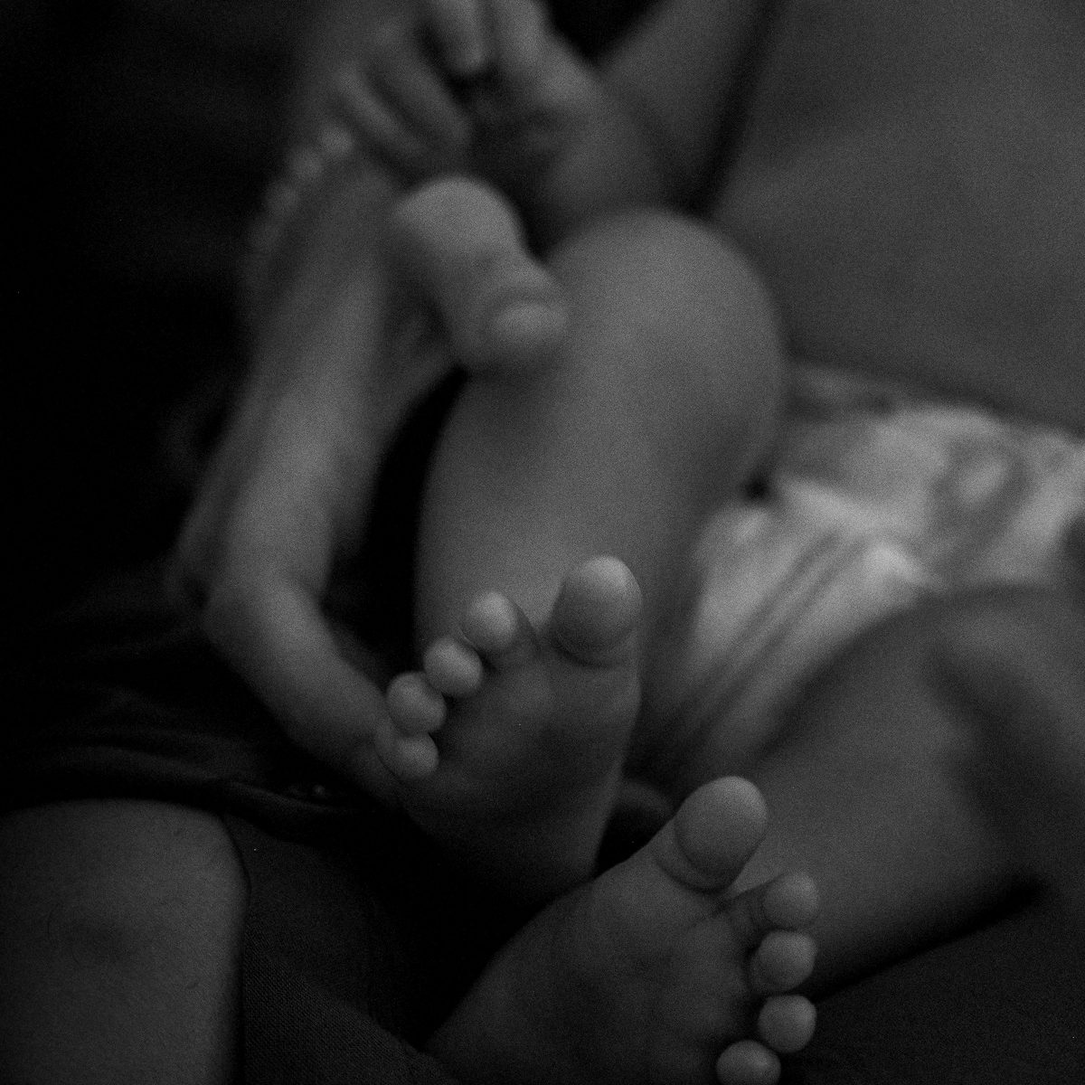
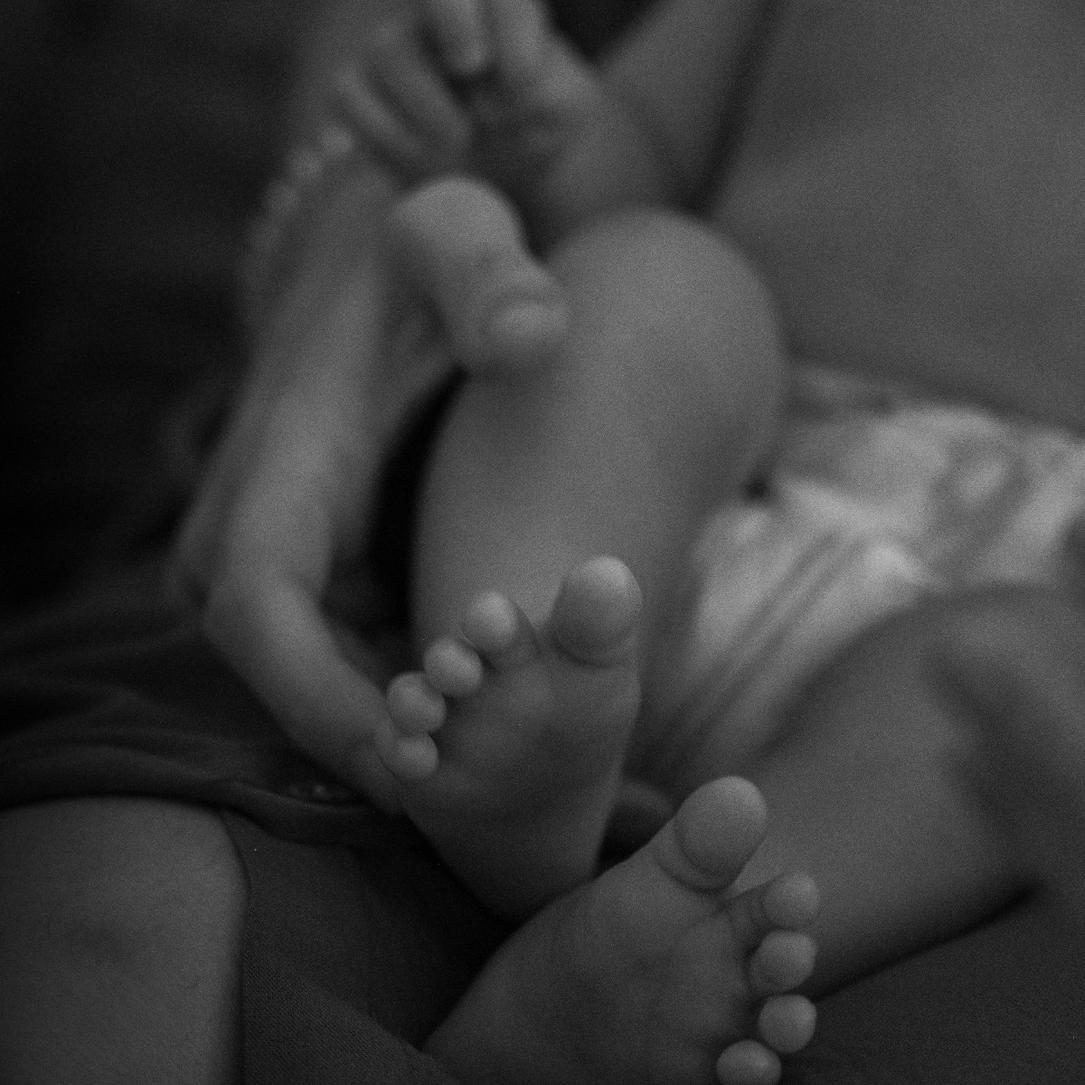
Fotos de nadó amb les edicions definitives (mateix enquadrament); el germà gran amb el nadó ara també en color
Claude-Session: https://claude.ai/code/session_01Gu4fKh15S1mJkh4ThjJ3MW

diff --git a/index.html b/index.html
@@ -481,7 +481,7 @@ body{font-weight:400}
 <header class="bar" aria-hidden="true"><a class="wm" href="#inici">Pau Fotografia</a><nav><a href="#contacte" data-t="cont">Contacte</a></nav></header>
 <main class="page" id="inici">
   <section class="hero">
-    <div class="hgrid" aria-hidden="true"><i class="v1"></i><i class="v2"></i><i class="h1l"></i><i class="h2l"></i><i class="h0l"></i></div><div class="hbg"><picture><img src="/pack/hero.jpg?v=20261119k" alt="Pau amb ulleres, fons desenfocat i una finestra nítida sobre mig rostre" fetchpriority="high"></picture></div>
+    <div class="hgrid" aria-hidden="true"><i class="v1"></i><i class="v2"></i><i class="h1l"></i><i class="h2l"></i><i class="h0l"></i></div><div class="hbg"><picture><img src="/pack/hero.jpg?v=20261119m" alt="Pau amb ulleres, fons desenfocat i una finestra nítida sobre mig rostre" fetchpriority="high"></picture></div>
     <div class="top"><div class="ctrls"><div class="toggle lang" role="group" aria-label="Idioma"><button class="on" data-lang="ca">CAT</button><span>|</span><button data-lang="es">ESP</button><span>|</span><button data-lang="en">ENG</button></div></div></div>
     <h1>Pau Fotografia</h1>
     <div class="tg" data-t="tag">Fotògraf social i<br class="m"> documental</div>
@@ -490,13 +490,13 @@ body{font-weight:400}
     <div class="com"><div class="lb" data-t="com">Com treballo</div><p class="body" data-t="ct">A través de la <button class="term" type="button" aria-haspopup="dialog">fotografia documental<i aria-hidden="true">+</i></button>, <strong>sense estudi ni decorats</strong>: a casa vostra o en aquell lloc on us sentiu com a casa. L'objectiu és que <strong>gaudiu de l'estona</strong> i us oblideu, tant com sigui possible, que hi ha una càmera al davant.</p></div>
   </section>
   <div class="hl"></div>
-  <div class="slider multi sl-elvi" style="aspect-ratio:1080/1150"><div class="track"><figure class="slide"><img class="b" data-v="elvi" src="/pack/elvi-color.jpg?v=20261119k" alt="Elvi somrient amb un floc de cabell davant la cara" loading="eager" style="object-position:50% 30%"><img class="o" data-v="elvi" src="/pack/elvi-bn.jpg?v=20261119k" alt="" aria-hidden="true" loading="lazy" style="object-position:50% 30%"><button class="sw" type="button" aria-label="Veure en blanc i negre"><i></i></button></figure><figure class="slide"><img class="b" data-v="elvi-01" src="/pack/elvi-01-color.jpg?v=20261119k" alt="Elvi amb les mans als cabells" loading="lazy" style="object-position:50% 30%"><img class="o" data-v="elvi-01" src="/pack/elvi-01-bn.jpg?v=20261119k" alt="" aria-hidden="true" loading="lazy" style="object-position:50% 30%"><button class="sw" type="button" aria-label="Veure en blanc i negre"><i></i></button></figure><figure class="slide"><img class="b" data-v="elvi-03" src="/pack/elvi-03-color.jpg?v=20261119k" alt="Elvi mirant de reüll" loading="lazy" style="object-position:50% 30%"><img class="o" data-v="elvi-03" src="/pack/elvi-03-bn.jpg?v=20261119k" alt="" aria-hidden="true" loading="lazy" style="object-position:50% 30%"><button class="sw" type="button" aria-label="Veure en blanc i negre"><i></i></button></figure><figure class="slide"><img class="b" data-v="elvi-04" src="/pack/elvi-04-color.jpg?v=20261119k" alt="Elvi de perfil a la finestra" loading="lazy" style="object-position:50% 30%"><img class="o" data-v="elvi-04" src="/pack/elvi-04-bn.jpg?v=20261119k" alt="" aria-hidden="true" loading="lazy" style="object-position:50% 30%"><button class="sw" type="button" aria-label="Veure en blanc i negre"><i></i></button></figure><figure class="slide"><img class="b" data-v="elvi-05" src="/pack/elvi-05-color.jpg?v=20261119k" alt="Elvi amb la llum de la cortina" loading="lazy" style="object-position:50% 30%"><img class="o" data-v="elvi-05" src="/pack/elvi-05-bn.jpg?v=20261119k" alt="" aria-hidden="true" loading="lazy" style="object-position:50% 30%"><button class="sw" type="button" aria-label="Veure en blanc i negre"><i></i></button></figure></div><div class="dots"><i class=on></i><i></i><i></i><i></i><i></i></div><div class="count">1/5</div><button class="nav prev" aria-label="Anterior">‹</button><button class="nav next" aria-label="Següent">›</button></div>
+  <div class="slider multi sl-elvi" style="aspect-ratio:1080/1150"><div class="track"><figure class="slide"><img class="b" data-v="elvi" src="/pack/elvi-color.jpg?v=20261119m" alt="Elvi somrient amb un floc de cabell davant la cara" loading="eager" style="object-position:50% 30%"><img class="o" data-v="elvi" src="/pack/elvi-bn.jpg?v=20261119m" alt="" aria-hidden="true" loading="lazy" style="object-position:50% 30%"><button class="sw" type="button" aria-label="Veure en blanc i negre"><i></i></button></figure><figure class="slide"><img class="b" data-v="elvi-01" src="/pack/elvi-01-color.jpg?v=20261119m" alt="Elvi amb les mans als cabells" loading="lazy" style="object-position:50% 30%"><img class="o" data-v="elvi-01" src="/pack/elvi-01-bn.jpg?v=20261119m" alt="" aria-hidden="true" loading="lazy" style="object-position:50% 30%"><button class="sw" type="button" aria-label="Veure en blanc i negre"><i></i></button></figure><figure class="slide"><img class="b" data-v="elvi-03" src="/pack/elvi-03-color.jpg?v=20261119m" alt="Elvi mirant de reüll" loading="lazy" style="object-position:50% 30%"><img class="o" data-v="elvi-03" src="/pack/elvi-03-bn.jpg?v=20261119m" alt="" aria-hidden="true" loading="lazy" style="object-position:50% 30%"><button class="sw" type="button" aria-label="Veure en blanc i negre"><i></i></button></figure><figure class="slide"><img class="b" data-v="elvi-04" src="/pack/elvi-04-color.jpg?v=20261119m" alt="Elvi de perfil a la finestra" loading="lazy" style="object-position:50% 30%"><img class="o" data-v="elvi-04" src="/pack/elvi-04-bn.jpg?v=20261119m" alt="" aria-hidden="true" loading="lazy" style="object-position:50% 30%"><button class="sw" type="button" aria-label="Veure en blanc i negre"><i></i></button></figure><figure class="slide"><img class="b" data-v="elvi-05" src="/pack/elvi-05-color.jpg?v=20261119m" alt="Elvi amb la llum de la cortina" loading="lazy" style="object-position:50% 30%"><img class="o" data-v="elvi-05" src="/pack/elvi-05-bn.jpg?v=20261119m" alt="" aria-hidden="true" loading="lazy" style="object-position:50% 30%"><button class="sw" type="button" aria-label="Veure en blanc i negre"><i></i></button></figure></div><div class="dots"><i class=on></i><i></i><i></i><i></i><i></i></div><div class="count">1/5</div><button class="nav prev" aria-label="Anterior">‹</button><button class="nav next" aria-label="Següent">›</button></div>
   <section class="com1m pad"><div class="lb" data-t="com">Com treballo</div><p class="body" data-t="ct">A través de la <button class="term" type="button" aria-haspopup="dialog">fotografia documental<i aria-hidden="true">+</i></button>, <strong>sense estudi ni decorats</strong>: a casa vostra o en aquell lloc on us sentiu com a casa. L'objectiu és que <strong>gaudiu de l'estona</strong> i us oblideu, tant com sigui possible, que hi ha una càmera al davant.</p><p class="body dk" data-t="ct2"><strong>M’adapto al vostre ritme</strong>, perquè cada persona és un món i necessita el seu temps per relaxar-se i sentir-se còmoda. És llavors, quan <strong>simplement sou vosaltres</strong>, que apareixen les imatges que <strong>expliquen de veritat la vostra història</strong>.</p></section>
-  <section class="com2 pad"><p class="body" data-t="ct2"><strong>M’adapto al vostre ritme</strong>, perquè cada persona és un món i necessita el seu temps per relaxar-se i sentir-se còmoda. És llavors, quan <strong>simplement sou vosaltres</strong>, que apareixen les imatges que <strong>expliquen de veritat la vostra història</strong>.</p><div class="slider sl-man" style="aspect-ratio:720/1010"><div class="track"><figure class="slide"><img class="b" data-v="maneta" src="/pack/maneta-color.jpg?v=20261119k" alt="Mà d’un nadó sobre la pell" loading="lazy" style="object-position:50% 50%"><img class="o" data-v="maneta" src="/pack/maneta-bn.jpg?v=20261119k" alt="" aria-hidden="true" loading="lazy" style="object-position:50% 50%"><button class="sw" type="button" aria-label="Veure en blanc i negre"><i></i></button></figure></div></div></section>
+  <section class="com2 pad"><p class="body" data-t="ct2"><strong>M’adapto al vostre ritme</strong>, perquè cada persona és un món i necessita el seu temps per relaxar-se i sentir-se còmoda. És llavors, quan <strong>simplement sou vosaltres</strong>, que apareixen les imatges que <strong>expliquen de veritat la vostra història</strong>.</p><div class="slider sl-man" style="aspect-ratio:720/1010"><div class="track"><figure class="slide"><img class="b" data-v="maneta" src="/pack/maneta-color.jpg?v=20261119m" alt="Mà d’un nadó sobre la pell" loading="lazy" style="object-position:50% 50%"><img class="o" data-v="maneta" src="/pack/maneta-bn.jpg?v=20261119m" alt="" aria-hidden="true" loading="lazy" style="object-position:50% 50%"><button class="sw" type="button" aria-label="Veure en blanc i negre"><i></i></button></figure></div></div></section>
   <div class="hl"></div>
   <div class="hl"></div>
   <div class="hl"></div>
-  <div class="pair"><div class="slider multi sl-nuvis" style="aspect-ratio:540/720"><div class="track"><figure class="slide"><img class="b" data-v="nuvis" src="/pack/nuvis-color.jpg?v=20261119k" alt="Parella de nuvis rient a la porta" loading="lazy" style="object-position:50% 50%"><img class="o" data-v="nuvis" src="/pack/nuvis-bn.jpg?v=20261119k" alt="" aria-hidden="true" loading="lazy" style="object-position:50% 50%"><button class="sw" type="button" aria-label="Veure en blanc i negre"><i></i></button></figure><figure class="slide"><img class="b" data-v="casament-pandemia-05" src="/pack/casament-pandemia-05-color.jpg?v=20261119k" alt="Nuvis amb mascareta" loading="lazy" style="object-position:50% 50%"><img class="o" data-v="casament-pandemia-05" src="/pack/casament-pandemia-05-bn.jpg?v=20261119k" alt="" aria-hidden="true" loading="lazy" style="object-position:50% 50%"><button class="sw" type="button" aria-label="Veure en blanc i negre"><i></i></button></figure><figure class="slide mono"><img class="b" data-v="casament-pandemia-01" src="/pack/casament-pandemia-01-bn.jpg?v=20261119k" alt="Pentinat davant del mirall" loading="lazy" style="object-position:50% 50%"></figure><figure class="slide"><img class="b" data-v="casament-pandemia-02" src="/pack/casament-pandemia-02-color.jpg?v=20261119k" alt="Ajustant el vestit" loading="lazy" style="object-position:50% 87%"><img class="o" data-v="casament-pandemia-02" src="/pack/casament-pandemia-02-bn.jpg?v=20261119k" alt="" aria-hidden="true" loading="lazy" style="object-position:50% 87%"><button class="sw" type="button" aria-label="Veure en blanc i negre"><i></i></button></figure><figure class="slide mono"><img class="b" data-v="casament-pandemia-08" src="/pack/casament-pandemia-08-bn.jpg?v=20261119k" alt="La cerimònia" loading="lazy" style="object-position:50% 50%"></figure><figure class="slide"><img class="b" data-v="casament-pandemia-03" src="/pack/casament-pandemia-03-color.jpg?v=20261119k" alt="Baixant les escales" loading="lazy" style="object-position:50% 50%"><img class="o" data-v="casament-pandemia-03" src="/pack/casament-pandemia-03-bn.jpg?v=20261119k" alt="" aria-hidden="true" loading="lazy" style="object-position:50% 50%"><button class="sw" type="button" aria-label="Veure en blanc i negre"><i></i></button></figure><figure class="slide mono"><img class="b" data-v="casament-pandemia-04" src="/pack/casament-pandemia-04-bn.jpg?v=20261119k" alt="Sortida entre arròs" loading="lazy" style="object-position:50% 50%"></figure><figure class="slide"><img class="b" data-v="casament-pandemia-09" src="/pack/casament-pandemia-09-color.jpg?v=20261119k" alt="Rient a la porta" loading="lazy" style="object-position:50% 50%"><img class="o" data-v="casament-pandemia-09" src="/pack/casament-pandemia-09-bn.jpg?v=20261119k" alt="" aria-hidden="true" loading="lazy" style="object-position:50% 50%"><button class="sw" type="button" aria-label="Veure en blanc i negre"><i></i></button></figure></div><div class="dots"><i class=on></i><i></i><i></i><i></i><i></i><i></i><i></i><i></i></div><div class="count">1/8</div><button class="nav prev" aria-label="Anterior">‹</button><button class="nav next" aria-label="Següent">›</button></div><div class="slider multi sl-maneta" style="aspect-ratio:540/720"><div class="track"><figure class="slide mono"><img class="b" data-v="bebe-01" src="/pack/bebe-01-bn.jpg?v=20261119k" alt="Un germà gran mirant el nadó" loading="lazy" style="object-position:50% 45%"></figure><figure class="slide mono"><img class="b" data-v="bebe-02" src="/pack/bebe-02-bn.jpg?v=20261119k" alt="Un nadó mamant als braços de la mare" loading="lazy" style="object-position:50% 40%"></figure><figure class="slide mono"><img class="b" data-v="bebe-03" src="/pack/bebe-03-bn.jpg?v=20261119k" alt="El braç i el puny d’un nadó" loading="lazy" style="object-position:50% 50%"></figure><figure class="slide mono"><img class="b" data-v="familia-05" src="/pack/familia-05-bn.jpg?v=20261119k" alt="Peus petits" loading="lazy" style="object-position:50% 50%"></figure><figure class="slide"><img class="b" data-v="familia-07" src="/pack/familia-07-color.jpg?v=20261119k" alt="La mà a l’esquena" loading="lazy" style="object-position:50% 50%"><img class="o" data-v="familia-07" src="/pack/familia-07-bn.jpg?v=20261119k" alt="" aria-hidden="true" loading="lazy" style="object-position:50% 50%"><button class="sw" type="button" aria-label="Veure en blanc i negre"><i></i></button></figure></div><div class="dots"><i class=on></i><i></i><i></i><i></i><i></i></div><div class="count">1/5</div><button class="nav prev" aria-label="Anterior">‹</button><button class="nav next" aria-label="Següent">›</button></div></div>
+  <div class="pair"><div class="slider multi sl-nuvis" style="aspect-ratio:540/720"><div class="track"><figure class="slide"><img class="b" data-v="nuvis" src="/pack/nuvis-color.jpg?v=20261119m" alt="Parella de nuvis rient a la porta" loading="lazy" style="object-position:50% 50%"><img class="o" data-v="nuvis" src="/pack/nuvis-bn.jpg?v=20261119m" alt="" aria-hidden="true" loading="lazy" style="object-position:50% 50%"><button class="sw" type="button" aria-label="Veure en blanc i negre"><i></i></button></figure><figure class="slide"><img class="b" data-v="casament-pandemia-05" src="/pack/casament-pandemia-05-color.jpg?v=20261119m" alt="Nuvis amb mascareta" loading="lazy" style="object-position:50% 50%"><img class="o" data-v="casament-pandemia-05" src="/pack/casament-pandemia-05-bn.jpg?v=20261119m" alt="" aria-hidden="true" loading="lazy" style="object-position:50% 50%"><button class="sw" type="button" aria-label="Veure en blanc i negre"><i></i></button></figure><figure class="slide mono"><img class="b" data-v="casament-pandemia-01" src="/pack/casament-pandemia-01-bn.jpg?v=20261119m" alt="Pentinat davant del mirall" loading="lazy" style="object-position:50% 50%"></figure><figure class="slide"><img class="b" data-v="casament-pandemia-02" src="/pack/casament-pandemia-02-color.jpg?v=20261119m" alt="Ajustant el vestit" loading="lazy" style="object-position:50% 87%"><img class="o" data-v="casament-pandemia-02" src="/pack/casament-pandemia-02-bn.jpg?v=20261119m" alt="" aria-hidden="true" loading="lazy" style="object-position:50% 87%"><button class="sw" type="button" aria-label="Veure en blanc i negre"><i></i></button></figure><figure class="slide mono"><img class="b" data-v="casament-pandemia-08" src="/pack/casament-pandemia-08-bn.jpg?v=20261119m" alt="La cerimònia" loading="lazy" style="object-position:50% 50%"></figure><figure class="slide"><img class="b" data-v="casament-pandemia-03" src="/pack/casament-pandemia-03-color.jpg?v=20261119m" alt="Baixant les escales" loading="lazy" style="object-position:50% 50%"><img class="o" data-v="casament-pandemia-03" src="/pack/casament-pandemia-03-bn.jpg?v=20261119m" alt="" aria-hidden="true" loading="lazy" style="object-position:50% 50%"><button class="sw" type="button" aria-label="Veure en blanc i negre"><i></i></button></figure><figure class="slide mono"><img class="b" data-v="casament-pandemia-04" src="/pack/casament-pandemia-04-bn.jpg?v=20261119m" alt="Sortida entre arròs" loading="lazy" style="object-position:50% 50%"></figure><figure class="slide"><img class="b" data-v="casament-pandemia-09" src="/pack/casament-pandemia-09-color.jpg?v=20261119m" alt="Rient a la porta" loading="lazy" style="object-position:50% 50%"><img class="o" data-v="casament-pandemia-09" src="/pack/casament-pandemia-09-bn.jpg?v=20261119m" alt="" aria-hidden="true" loading="lazy" style="object-position:50% 50%"><button class="sw" type="button" aria-label="Veure en blanc i negre"><i></i></button></figure></div><div class="dots"><i class=on></i><i></i><i></i><i></i><i></i><i></i><i></i><i></i></div><div class="count">1/8</div><button class="nav prev" aria-label="Anterior">‹</button><button class="nav next" aria-label="Següent">›</button></div><div class="slider multi sl-maneta" style="aspect-ratio:540/720"><div class="track"><figure class="slide"><img class="b" data-v="bebe-01" src="/pack/bebe-01-color.jpg?v=20261119m" alt="Un germà gran mirant el nadó" loading="lazy" style="object-position:50% 45%"><img class="o" data-v="bebe-01" src="/pack/bebe-01-bn.jpg?v=20261119m" alt="" aria-hidden="true" loading="lazy" style="object-position:50% 45%"><button class="sw" type="button" aria-label="Veure en blanc i negre"><i></i></button></figure><figure class="slide mono"><img class="b" data-v="bebe-02" src="/pack/bebe-02-bn.jpg?v=20261119m" alt="Un nadó mamant als braços de la mare" loading="lazy" style="object-position:50% 40%"></figure><figure class="slide mono"><img class="b" data-v="bebe-03" src="/pack/bebe-03-bn.jpg?v=20261119m" alt="El braç i el puny d’un nadó" loading="lazy" style="object-position:50% 50%"></figure><figure class="slide mono"><img class="b" data-v="familia-05" src="/pack/familia-05-bn.jpg?v=20261119m" alt="Peus petits" loading="lazy" style="object-position:50% 50%"></figure><figure class="slide"><img class="b" data-v="familia-07" src="/pack/familia-07-color.jpg?v=20261119m" alt="La mà a l’esquena" loading="lazy" style="object-position:50% 50%"><img class="o" data-v="familia-07" src="/pack/familia-07-bn.jpg?v=20261119m" alt="" aria-hidden="true" loading="lazy" style="object-position:50% 50%"><button class="sw" type="button" aria-label="Veure en blanc i negre"><i></i></button></figure></div><div class="dots"><i class=on></i><i></i><i></i><i></i><i></i></div><div class="count">1/5</div><button class="nav prev" aria-label="Anterior">‹</button><button class="nav next" aria-label="Següent">›</button></div></div>
   <div class="hl"></div>
   <section class="pack">
     <div class="prow"><button class="pill" type="button" aria-haspopup="dialog"><span data-t="pack">Pack promocional – Llançament</span><i class="pplus" aria-hidden="true"></i></button><div class="price">89 €<span class="ast">*</span></div>
@@ -504,9 +504,9 @@ body{font-weight:400}
     <div class="ptypes" data-t="tipus"><span>Retrat</span><i>·</i><span>Família</span><i>·</i><span>Embaràs</span><i>·</i><span>Parella</span></div>
   </section>
   <div class="hl"></div>
-  <div class="slider sl-mocador" style="aspect-ratio:1080/720"><div class="track"><figure class="slide"><img class="b" data-v="mocador" src="/pack/mocador-color.jpg?v=20261119k" alt="Retrat d’una dona amb mocador entre el fum" loading="lazy" style="object-position:50% 40%"><img class="o" data-v="mocador" src="/pack/mocador-bn.jpg?v=20261119k" alt="" aria-hidden="true" loading="lazy" style="object-position:50% 40%"><button class="sw" type="button" aria-label="Veure en blanc i negre"><i></i></button></figure></div></div>
+  <div class="slider sl-mocador" style="aspect-ratio:1080/720"><div class="track"><figure class="slide"><img class="b" data-v="mocador" src="/pack/mocador-color.jpg?v=20261119m" alt="Retrat d’una dona amb mocador entre el fum" loading="lazy" style="object-position:50% 40%"><img class="o" data-v="mocador" src="/pack/mocador-bn.jpg?v=20261119m" alt="" aria-hidden="true" loading="lazy" style="object-position:50% 40%"><button class="sw" type="button" aria-label="Veure en blanc i negre"><i></i></button></figure></div></div>
   <div class="hl"></div>
-  <div class="pair"><div class="slider multi sl-ulleres" style="aspect-ratio:540/720"><div class="track"><figure class="slide"><img class="b" data-v="ulleres" src="/pack/ulleres-color.jpg?v=20261119k" alt="Home rient amb ulleres de sol" loading="lazy" style="object-position:50% 50%"><img class="o" data-v="ulleres" src="/pack/ulleres-bn.jpg?v=20261119k" alt="" aria-hidden="true" loading="lazy" style="object-position:50% 50%"><button class="sw" type="button" aria-label="Veure en blanc i negre"><i></i></button></figure><figure class="slide"><img class="b" data-v="llum-desembre-05" src="/pack/llum-desembre-05-color.jpg?v=20261119k" alt="Cara al sol" loading="lazy" style="object-position:64% 50%"><img class="o" data-v="llum-desembre-05" src="/pack/llum-desembre-05-bn.jpg?v=20261119k" alt="" aria-hidden="true" loading="lazy" style="object-position:64% 50%"><button class="sw" type="button" aria-label="Veure en blanc i negre"><i></i></button></figure><figure class="slide"><img class="b" data-v="llum-desembre-02" src="/pack/llum-desembre-02-color.jpg?v=20261119k" alt="Somriure amb caputxa" loading="lazy" style="object-position:52% 50%"><img class="o" data-v="llum-desembre-02" src="/pack/llum-desembre-02-bn.jpg?v=20261119k" alt="" aria-hidden="true" loading="lazy" style="object-position:52% 50%"><button class="sw" type="button" aria-label="Veure en blanc i negre"><i></i></button></figure><figure class="slide"><img class="b" data-v="llum-desembre-04" src="/pack/llum-desembre-04-color.jpg?v=20261119k" alt="Per sobre de les ulleres" loading="lazy" style="object-position:56% 50%"><img class="o" data-v="llum-desembre-04" src="/pack/llum-desembre-04-bn.jpg?v=20261119k" alt="" aria-hidden="true" loading="lazy" style="object-position:56% 50%"><button class="sw" type="button" aria-label="Veure en blanc i negre"><i></i></button></figure><figure class="slide"><img class="b" data-v="llum-desembre-01" src="/pack/llum-desembre-01-color.jpg?v=20261119k" alt="Mitja cara a la llum" loading="lazy" style="object-position:54% 50%"><img class="o" data-v="llum-desembre-01" src="/pack/llum-desembre-01-bn.jpg?v=20261119k" alt="" aria-hidden="true" loading="lazy" style="object-position:54% 50%"><button class="sw" type="button" aria-label="Veure en blanc i negre"><i></i></button></figure></div><div class="dots"><i class=on></i><i></i><i></i><i></i><i></i></div><div class="count">1/5</div><button class="nav prev" aria-label="Anterior">‹</button><button class="nav next" aria-label="Següent">›</button></div><div class="slider multi sl-confeti" style="aspect-ratio:540/720"><div class="track"><figure class="slide"><img class="b" data-v="confeti" src="/pack/confeti-color.jpg?v=20261119k" alt="Nuvis sortint entre confeti amb el ram a l’aire" loading="lazy" style="object-position:64% 50%"><img class="o" data-v="confeti" src="/pack/confeti-bn.jpg?v=20261119k" alt="" aria-hidden="true" loading="lazy" style="object-position:64% 50%"><button class="sw" type="button" aria-label="Veure en blanc i negre"><i></i></button></figure><figure class="slide"><img class="b" data-v="casament-01" src="/pack/casament-01-color.jpg?v=20261119k" alt="Sortida entre confeti" loading="lazy" style="object-position:55% 50%"><img class="o" data-v="casament-01" src="/pack/casament-01-bn.jpg?v=20261119k" alt="" aria-hidden="true" loading="lazy" style="object-position:55% 50%"><button class="sw" type="button" aria-label="Veure en blanc i negre"><i></i></button></figure></div><div class="dots"><i class=on></i><i></i></div><div class="count">1/2</div><button class="nav prev" aria-label="Anterior">‹</button><button class="nav next" aria-label="Següent">›</button></div></div>
+  <div class="pair"><div class="slider multi sl-ulleres" style="aspect-ratio:540/720"><div class="track"><figure class="slide"><img class="b" data-v="ulleres" src="/pack/ulleres-color.jpg?v=20261119m" alt="Home rient amb ulleres de sol" loading="lazy" style="object-position:50% 50%"><img class="o" data-v="ulleres" src="/pack/ulleres-bn.jpg?v=20261119m" alt="" aria-hidden="true" loading="lazy" style="object-position:50% 50%"><button class="sw" type="button" aria-label="Veure en blanc i negre"><i></i></button></figure><figure class="slide"><img class="b" data-v="llum-desembre-05" src="/pack/llum-desembre-05-color.jpg?v=20261119m" alt="Cara al sol" loading="lazy" style="object-position:64% 50%"><img class="o" data-v="llum-desembre-05" src="/pack/llum-desembre-05-bn.jpg?v=20261119m" alt="" aria-hidden="true" loading="lazy" style="object-position:64% 50%"><button class="sw" type="button" aria-label="Veure en blanc i negre"><i></i></button></figure><figure class="slide"><img class="b" data-v="llum-desembre-02" src="/pack/llum-desembre-02-color.jpg?v=20261119m" alt="Somriure amb caputxa" loading="lazy" style="object-position:52% 50%"><img class="o" data-v="llum-desembre-02" src="/pack/llum-desembre-02-bn.jpg?v=20261119m" alt="" aria-hidden="true" loading="lazy" style="object-position:52% 50%"><button class="sw" type="button" aria-label="Veure en blanc i negre"><i></i></button></figure><figure class="slide"><img class="b" data-v="llum-desembre-04" src="/pack/llum-desembre-04-color.jpg?v=20261119m" alt="Per sobre de les ulleres" loading="lazy" style="object-position:56% 50%"><img class="o" data-v="llum-desembre-04" src="/pack/llum-desembre-04-bn.jpg?v=20261119m" alt="" aria-hidden="true" loading="lazy" style="object-position:56% 50%"><button class="sw" type="button" aria-label="Veure en blanc i negre"><i></i></button></figure><figure class="slide"><img class="b" data-v="llum-desembre-01" src="/pack/llum-desembre-01-color.jpg?v=20261119m" alt="Mitja cara a la llum" loading="lazy" style="object-position:54% 50%"><img class="o" data-v="llum-desembre-01" src="/pack/llum-desembre-01-bn.jpg?v=20261119m" alt="" aria-hidden="true" loading="lazy" style="object-position:54% 50%"><button class="sw" type="button" aria-label="Veure en blanc i negre"><i></i></button></figure></div><div class="dots"><i class=on></i><i></i><i></i><i></i><i></i></div><div class="count">1/5</div><button class="nav prev" aria-label="Anterior">‹</button><button class="nav next" aria-label="Següent">›</button></div><div class="slider multi sl-confeti" style="aspect-ratio:540/720"><div class="track"><figure class="slide"><img class="b" data-v="confeti" src="/pack/confeti-color.jpg?v=20261119m" alt="Nuvis sortint entre confeti amb el ram a l’aire" loading="lazy" style="object-position:64% 50%"><img class="o" data-v="confeti" src="/pack/confeti-bn.jpg?v=20261119m" alt="" aria-hidden="true" loading="lazy" style="object-position:64% 50%"><button class="sw" type="button" aria-label="Veure en blanc i negre"><i></i></button></figure><figure class="slide"><img class="b" data-v="casament-01" src="/pack/casament-01-color.jpg?v=20261119m" alt="Sortida entre confeti" loading="lazy" style="object-position:55% 50%"><img class="o" data-v="casament-01" src="/pack/casament-01-bn.jpg?v=20261119m" alt="" aria-hidden="true" loading="lazy" style="object-position:55% 50%"><button class="sw" type="button" aria-label="Veure en blanc i negre"><i></i></button></figure></div><div class="dots"><i class=on></i><i></i></div><div class="count">1/2</div><button class="nav prev" aria-label="Anterior">‹</button><button class="nav next" aria-label="Següent">›</button></div></div>
   <div class="hl"></div>
   <section class="contact pad" id="contacte">
     <div class="gear">
@@ -540,7 +540,7 @@ document.querySelectorAll('.slider.multi').forEach(function(s){
 var MODE='color';
 function L(){var l=document.documentElement.lang;return {ca:{swb:'Veure en blanc i negre',swc:'Veure en color'},es:{swb:'Ver en blanco y negro',swc:'Ver en color'},en:{swb:'View in black and white',swc:'View in colour'}}[l]||{swb:'Veure en blanc i negre',swc:'Veure en color'}}
 function other(){return MODE==='bn'?'color':'bn'}
-function src2(o){return '/pack/'+o.dataset.v+'-'+other()+'.jpg?v=20261119k'}
+function src2(o){return '/pack/'+o.dataset.v+'-'+other()+'.jpg?v=20261119m'}
 function setX(f,x,anim){
   var o=f.querySelector('.o');if(!o.getAttribute('src'))o.src=src2(o);
   f.classList.toggle('drag',!anim);f._x=x;
